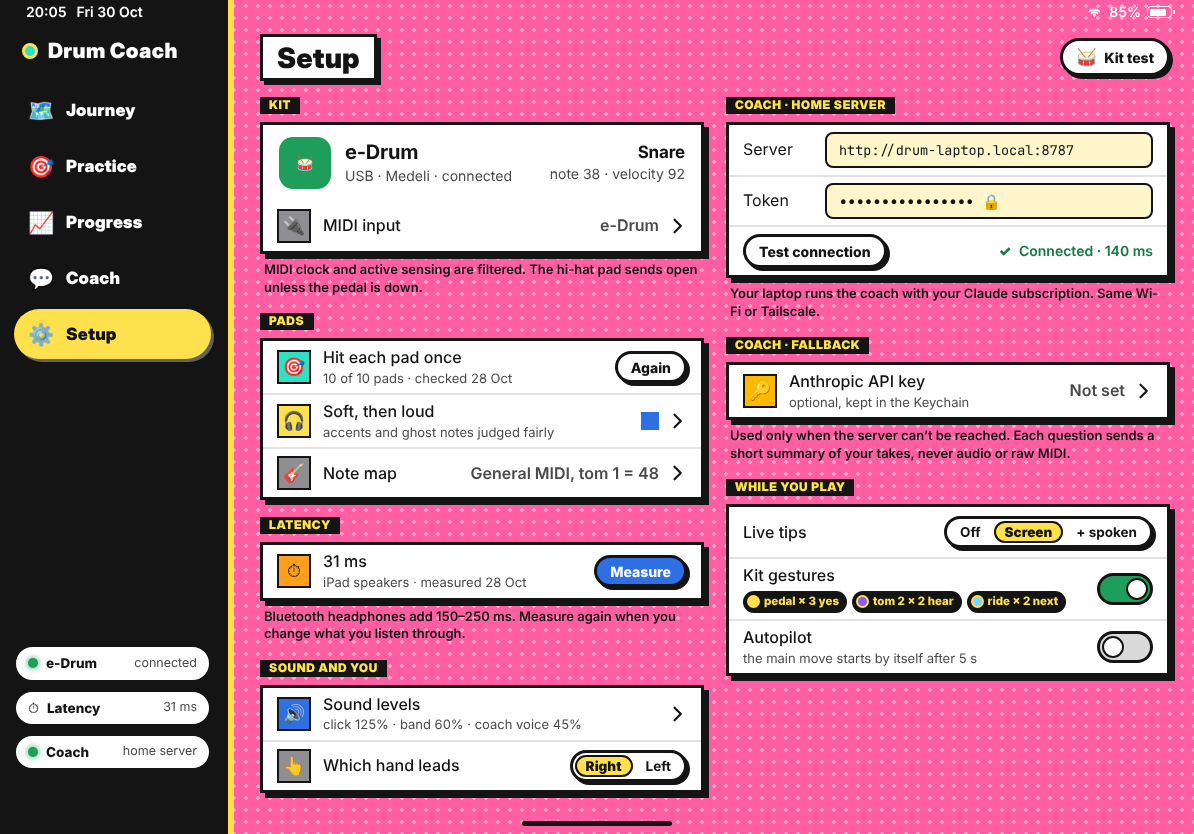
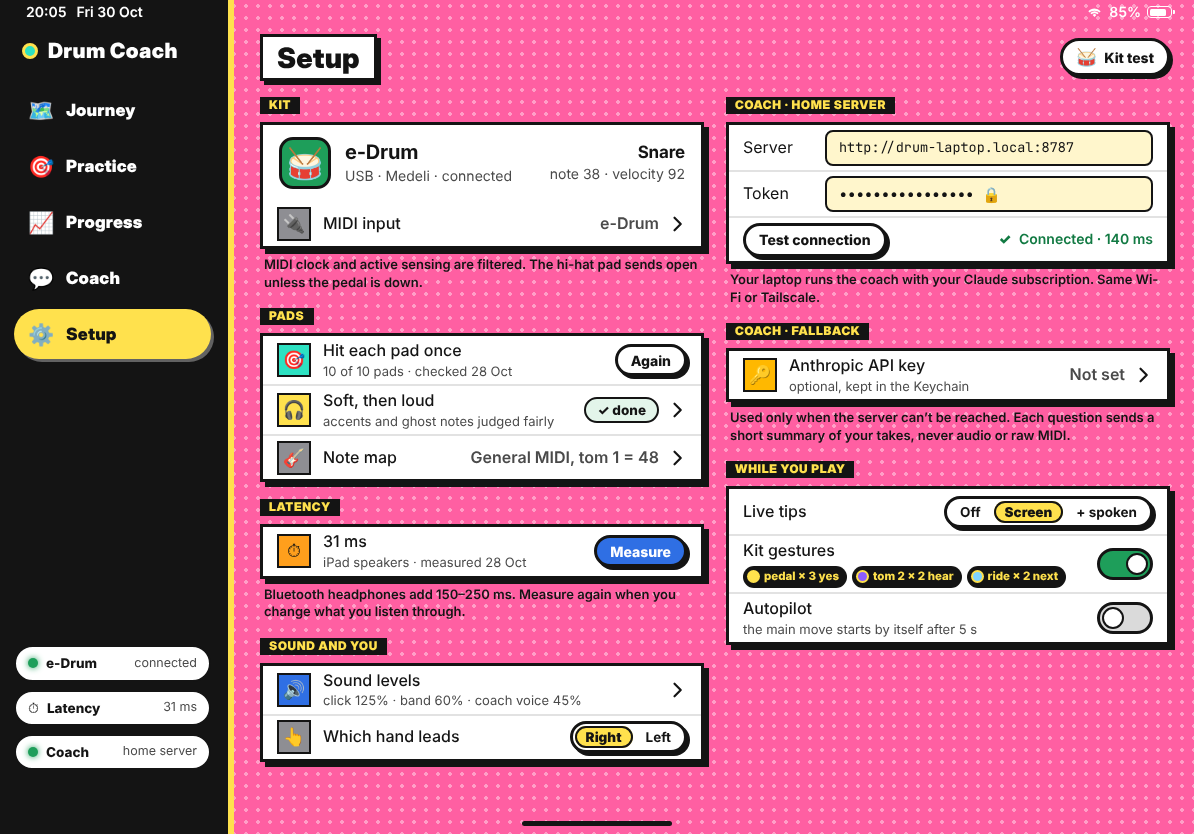
iPad mockups, web look: Setup
Claude-Session: https://claude.ai/code/session_012qCzBwXtPvMyyk6zKAziwn

Changed region(s): [[0.2169, 0.1559, 0.9916, 0.9664]]

diff --git a/docs/mockups/ipad/setup.html b/docs/mockups/ipad/setup.html
@@ -8,7 +8,7 @@
 <style>
   .cols { display: grid; grid-template-columns: 1fr 1fr; gap: 22px; align-items: start; }
   .col { display: flex; flex-direction: column; gap: 14px; }
-  .li { min-height: 50px; }
+  .li { min-height: 45px; padding-top: 4px; padding-bottom: 4px; }
   .li .grow b { font-weight: 500; }
   .li .grow small { margin-top: 1px; }
   .sym.green { background: var(--green); } .sym.blue { background: var(--tint); } .sym.orange { background: var(--orange); }
@@ -27,7 +27,8 @@
   .groupHead { padding-top: 0; }
   .kitHero { display: flex; align-items: center; gap: 14px; padding: 12px 16px; }
   .kitHero .big { width: 52px; height: 52px; border-radius: 14px; background: var(--green); color: #fff; display: grid; place-items: center; }
-  .kitHero .big .ic { width: 30px; height: 30px; }
+  .kitHero .big { border: 3px solid var(--line); }
+  .kitHero .big .em { font-size: 30px; }
   .kitHero b { font-size: 20px; display: block; letter-spacing: -.01em; }
   .kitHero span { font-size: 14px; color: var(--label2); }
   .kitHero .hit { margin-left: auto; text-align: right; }
@@ -70,7 +71,7 @@
           <div class="groupHead">Pads</div>
           <div class="group">
             <div class="li withSym"><span class="sym indigo"><span class="em">🎯</span></span><span class="grow"><b>Hit each pad once</b><small>10 of 10 pads · checked 28 Oct</small></span><span class="val"><span class="btn sm" style="height:32px">Again</span></span></div>
-            <div class="li withSym"><span class="sym teal"><span class="em">🎧</span></span><span class="grow"><b>Soft, then loud</b><small>accents and ghost notes judged fairly</small></span><span class="val"><span class="ic i-check chk"></span><span class="ic i-chevr chev"></span></span></div>
+            <div class="li withSym"><span class="sym teal"><span class="em">🎧</span></span><span class="grow"><b>Soft, then loud</b><small>accents and ghost notes judged fairly</small></span><span class="val"><span class="pill green" style="height:26px">✓ done</span><span class="ic i-chevr chev"></span></span></div>
             <div class="li withSym"><span class="sym gray"><span class="em">🎸</span></span><span class="grow"><b>Note map</b></span><span class="val">General MIDI, tom 1 = 48 <span class="ic i-chevr chev"></span></span></div>
           </div>
         </div>
